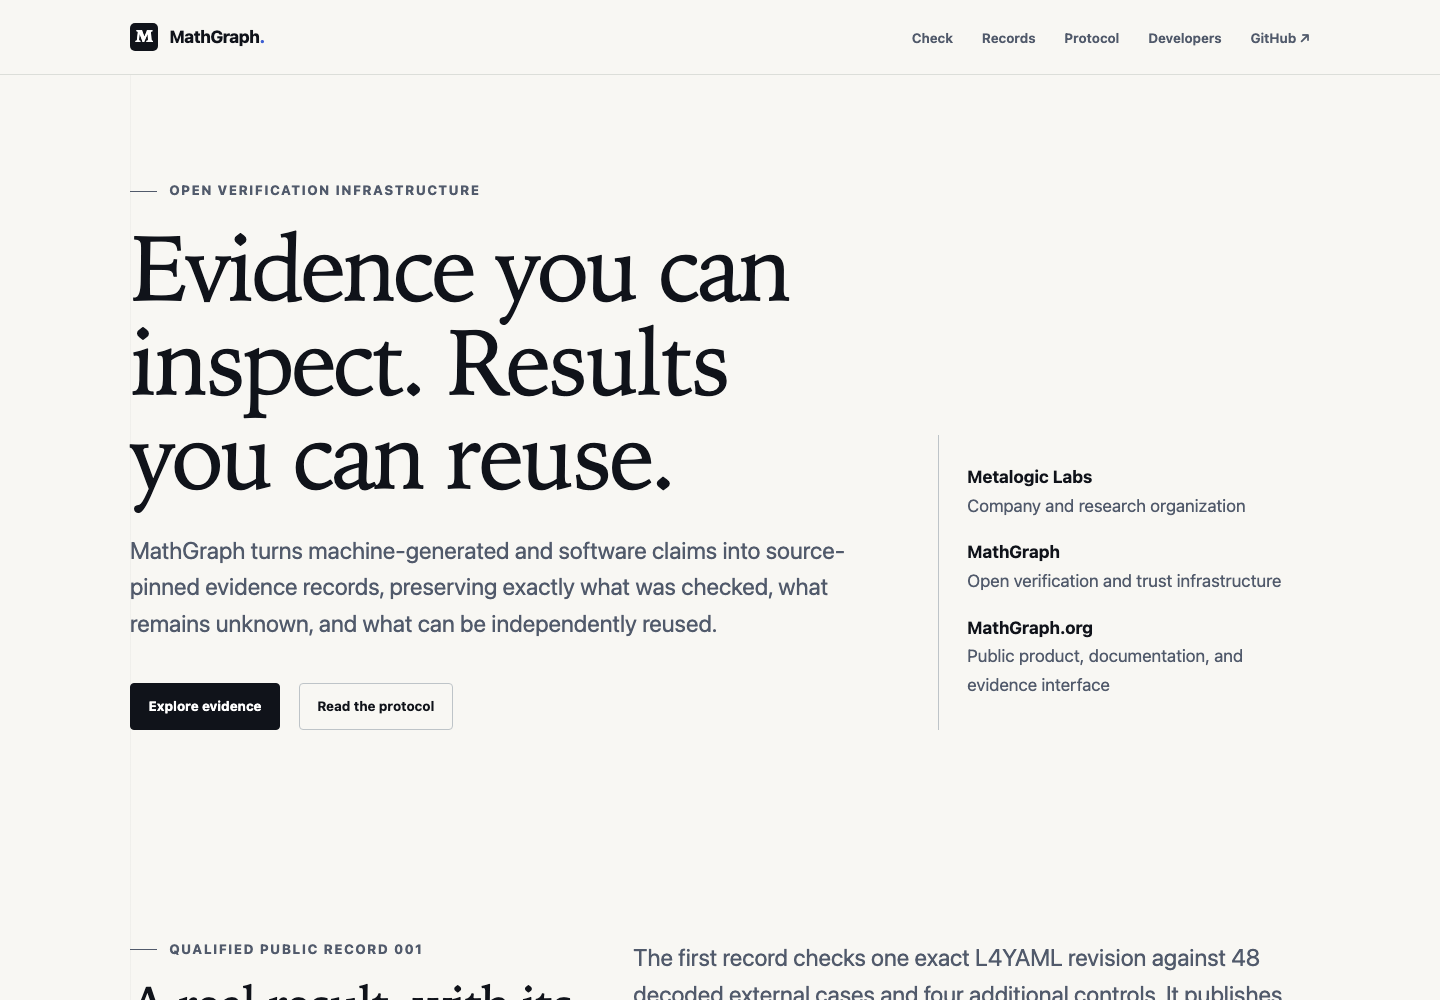
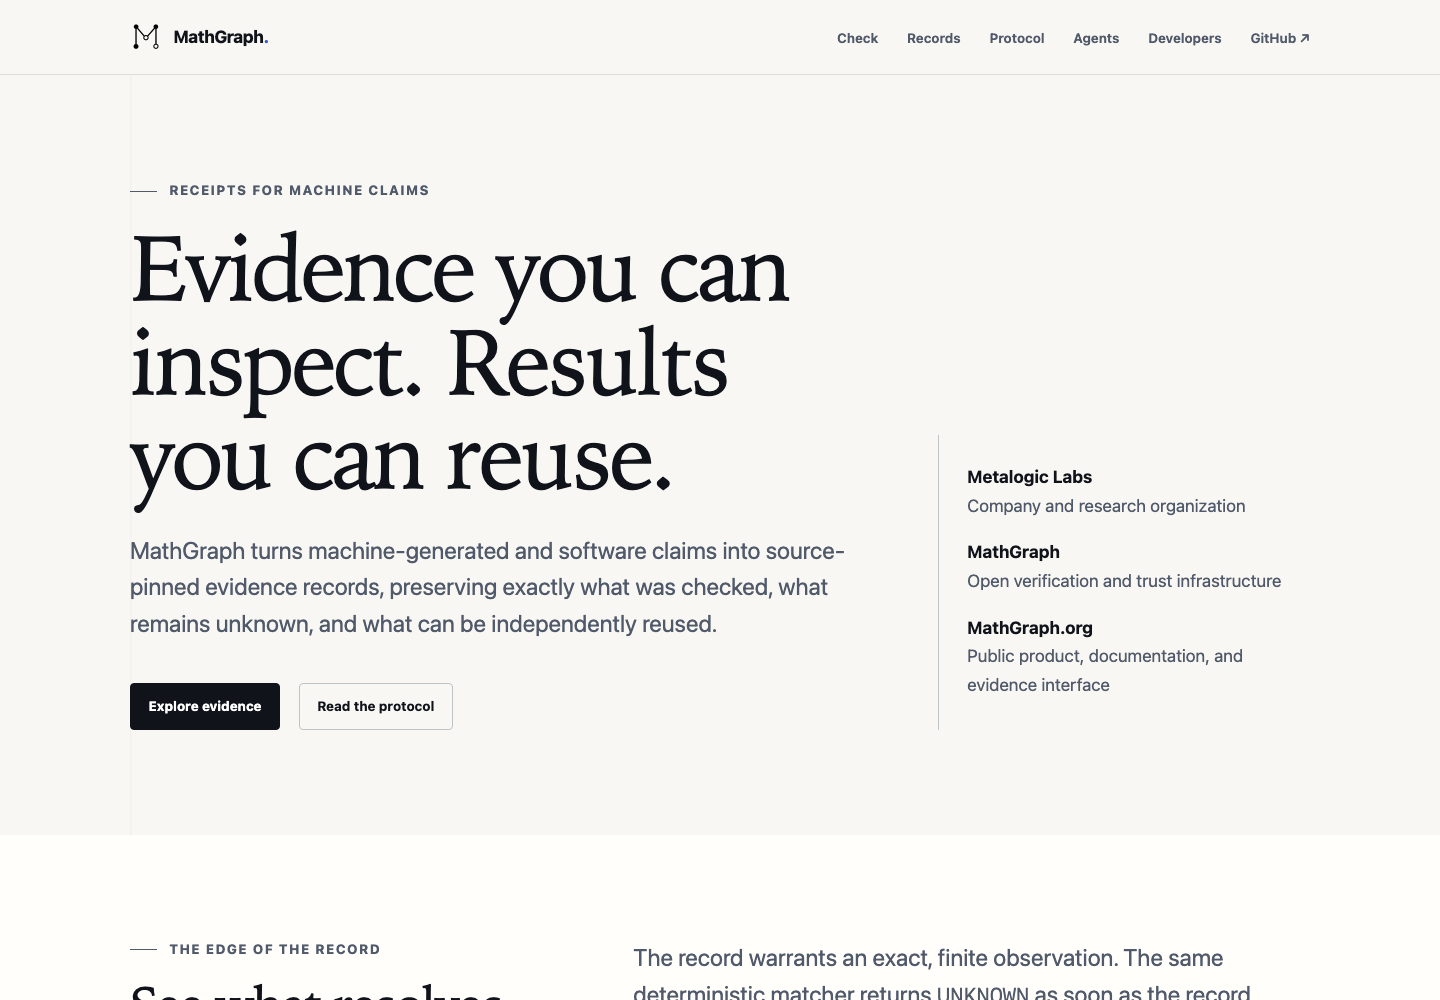
docs(website): document record publication workflow

diff --git a/website/README.md b/website/README.md
@@ -1,6 +1,6 @@
 # MathGraph.org V1
 
-Static Astro product, documentation, and evidence interface for MathGraph. The site renders its qualified L4YAML result from the exact frozen public record in `src/data/l4yaml-record.json`; verification authority remains in the Python publisher, resolver, archived receipts, and qualification tests.
+Static Astro product, documentation, and evidence interface for MathGraph. The site renders its qualified L4YAML result from the exact frozen public record in `src/data/l4yaml-record.json`; verification authority remains in the Python publisher, resolver, archived receipts, and qualification tests. The catalogue and presentation layer may describe that evidence, but cannot promote its authority.
 
 ## Local qualification
 
@@ -11,7 +11,7 @@ npm ci
 npm run qualify
 ```
 
-`qualify` runs Astro diagnostics, data tests, a production build, rendered-page contracts, page/JSON integrity and claim checks, the actual Python resolver documentation contract, HTML validation, internal-link and fragment checks, and an isolated HTTP consumer. The consumer imports no MathGraph verifier code and recomputes the canonical digest: exact pins resolve to `WARRANTED_BOUNDED`, while changed content, incorrect pins, or unsupported inputs resolve to `UNKNOWN`.
+`qualify` checks the deterministic social card, runs Astro diagnostics and data tests, creates a production build, validates machine and rendered-page contracts, checks page/JSON integrity and claims, exercises the actual Python resolver documentation contract, validates HTML and links, and runs an isolated HTTP consumer. The consumer imports no MathGraph verifier code. It follows discovery → catalogue → immutable record, recomputes transport and canonical digests, accepts only the exact ID/version/source pin/suite pin/goal tuple, and returns `UNKNOWN` for altered content, wrong pins, unsupported goals, unknown identities or versions, and unknown extension types.
 
 To inspect the built site:
 
@@ -28,15 +28,43 @@ The exact 13-test publisher and resolver qualification also requires the two ori
 - `/check/` — independent verification axes
 - `/records/` — immutable record index
 - `/records/mg-l4yaml-source-check-20261010/` — full evidence boundary
+- `/records/mg-l4yaml-source-check-20261010/v1/` — permanent V1 record page
 - `/protocol/` — implemented, experimental, and proposed architecture
+- `/protocol/profiles/lean/` — proposed, unstable Lean evidence profile
+- `/agents/` — deterministic agent-consumption contract
 - `/developers/` — record and local resolver contract
+- `/llms.txt`, `/.well-known/mathgraph.json`, and `/records/index.json` — machine discovery and short-lived lifecycle catalogue
 
 The `/v1/resolve` resolver is a qualified localhost preview, not a publicly deployed service. The committed static JSON record is the V1 machine-readable public interface.
 
+## Publishing another record
+
+Every published version is a package with separately governed evidence and presentation:
+
+- Immutable verifier output under `public/evidence/<record-id>/`, produced by a qualified publisher.
+- A registered entry in `src/data/record-index.json` with an exact version, schema, canonical record digest, transport digests, source pins, lifecycle, and structured scope contract.
+- A versioned sidecar at `public/records/<record-id>/vN/metadata.json`. It may contain citation, classification, license, and display metadata. It may not contain a warrant, evidence axes, lifecycle, admission, or verification status.
+- A public JSON Schema under `public/schemas/` and an explicit adapter in `src/lib/catalog.ts`. Unknown record schemas fail closed with `UNSUPPORTED_RECORD_SCHEMA`; do not add a catalogue entry before its adapter exists.
+- A permanent `/records/<record-id>/vN/` page and an unversioned route that resolves only to the declared `latest_versions` entry.
+
+Population workflow:
+
+1. Qualify and freeze the verifier outputs outside the presentation layer. Never hand-edit an existing qualified record.
+2. Copy the immutable outputs into `public/evidence/<record-id>/` and record their byte hashes with `shasum -a 256`.
+3. Create the metadata sidecar with `history[].evidence_changed: false`; compute and register its canonical content digest through the catalogue test helpers.
+4. Register the version, exact pins, supported goals, and explicit unknowns in `src/data/record-index.json`. A metadata-only change must never change `historic_status` or make a new goal reusable.
+5. Add or update the schema-specific renderer. Generate the evidence-derived share card with `npm run generate:social`.
+6. Run `npm ci && npm run qualify`. Confirm the consumer returns `WARRANTED_BOUNDED` only for the exact supported tuple and `UNKNOWN` for every negative case.
+7. Review desktop, tablet, and mobile output before pushing. Lifecycle changes belong in the short-lived catalogue; historic evidence bytes and permanent URLs remain unchanged.
+
+The committed digest proves integrity and byte identity, not origin authenticity or semantic truth. The current GitHub catalogue link is second-origin provenance marked `UNSIGNED_PROVENANCE_ONLY`; a signed tag or Sigstore statement remains future work until a real key policy is qualified.
+
 ## Visual review evidence
 
-Exact-width Chrome captures are committed in [`qa/screenshots`](qa/screenshots/): 1440 px desktop, 768 px tablet, and 390 px mobile. The capture gate asserted `scrollWidth === clientWidth` for every captured route. Browser review also covered focus order, visible copy feedback, code-block containment, semantic headings, and console warnings/errors.
+Exact-width Chrome captures are committed in [`qa/screenshots`](qa/screenshots/): 1440 px desktop, 768 px tablet, and 390 px mobile. The current capture gate visits the homepage, Agents, record index, current and permanent record routes, Lean profile, and developer guide at all three widths. It asserts `scrollWidth === clientWidth`, one H1 and one main landmark, and no browser console warnings or errors. Browser review also covers keyboard focus order, text-visible status glyphs, code-block containment, and mobile navigation.
 
 ## Deployment
 
-The repository-root `vercel.json` installs and builds this workspace, then publishes `website/dist`; the colocated `website/vercel.json` is the matching workspace policy for direct local use. Both supply the restrictive site CSP and permanent read-only redirects from the three resource links in the byte-preserved publisher page to their durable `/evidence/` assets; neither exposes `POST /v1/resolve`. A preview may be created through an existing authenticated Vercel project or Git integration. Do not alias `mathgraph.org`, promote, or deploy with `--prod` without explicit release approval.
+The repository-root `vercel.json` installs and builds this workspace, then publishes `website/dist`; the colocated `website/vercel.json` is the matching workspace policy for direct local use. Both supply the restrictive site CSP, immutable caching for versioned evidence resources, short revalidation for discovery/lifecycle resources, and permanent read-only redirects from the three resource links in the byte-preserved publisher page to their durable `/evidence/` assets. Neither exposes `POST /v1/resolve`.
+
+Create previews only through the already linked Vercel project or Git integration. Promote the exact qualified preview through Vercel's normal promotion mechanism only after local qualification, green GitHub checks, authenticated preview checks, and visual review. Never change Namecheap DNS, nameservers, MX, SPF, DKIM, DMARC, or unrelated Vercel settings as part of a website release.
